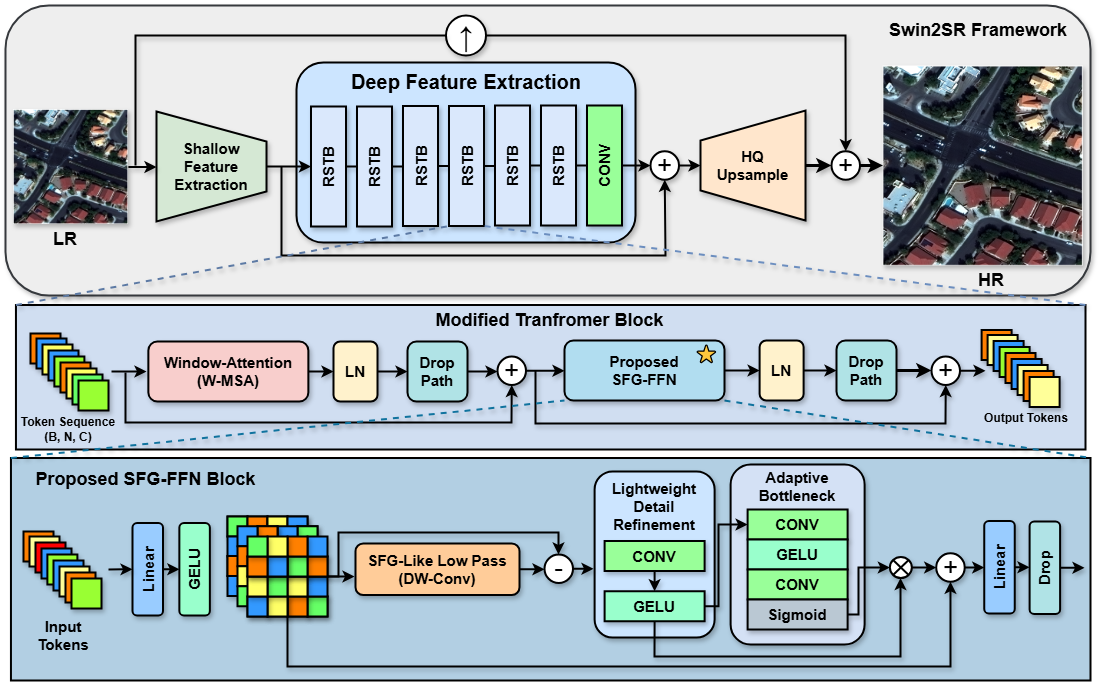
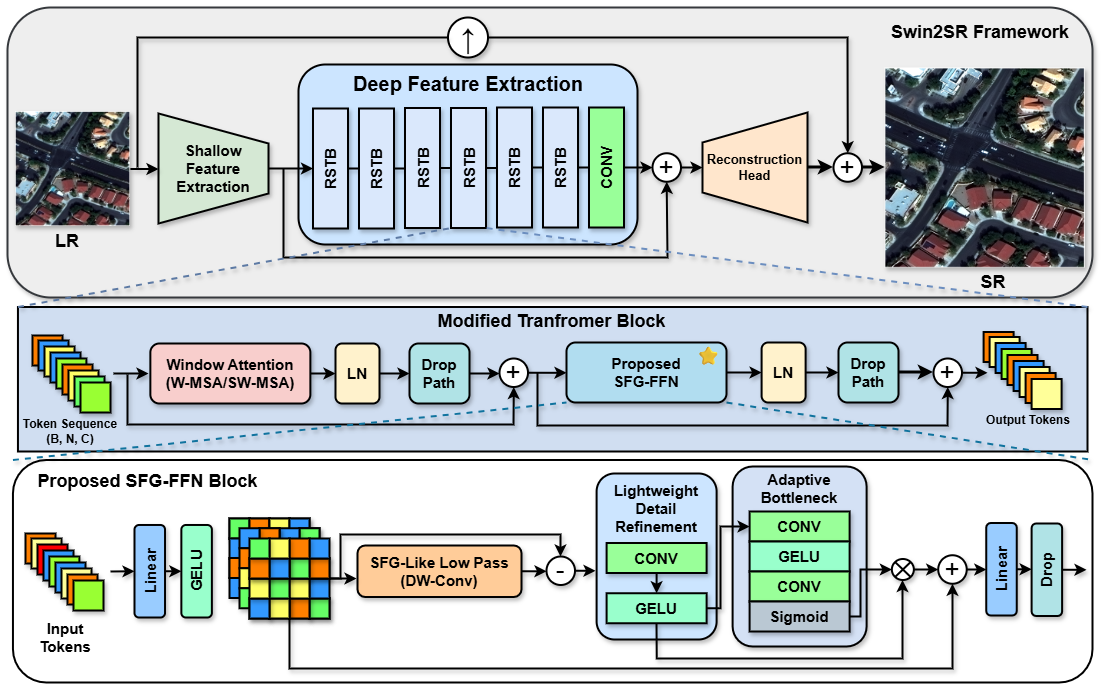
Use final paper architecture

diff --git a/README.md b/README.md
@@ -1,7 +1,3 @@
-<p align="center">
-  <img src="docs/images/SISR.final.png" alt="SFG-SwinSR overview" width="88%">
-</p>
-
 <h1 align="center">
   Spatial-Frequency Gated Swin Transformer for
 Cross-Sensor Remote Sensing Super-Resolution
